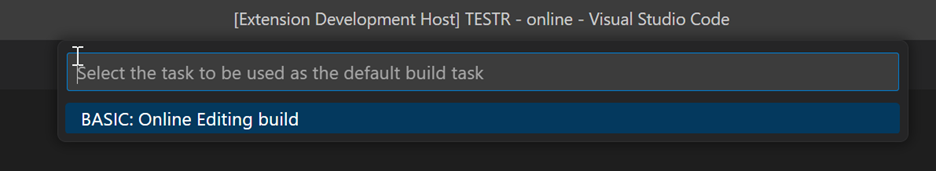
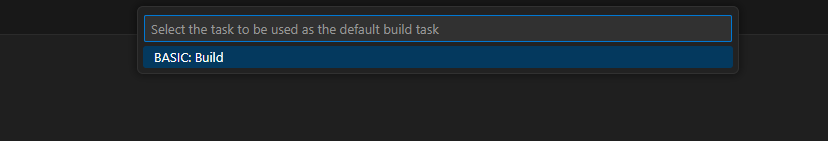
Updating documents for MVVS 2.7.0

diff --git a/docs/usage/Debugging.md b/docs/usage/Debugging.md
@@ -6,13 +6,13 @@ The following U2 server versions and platforms are supported:
 
 ### UniVerse
 
-Versions: 11.3.2 or higher
+Versions: For offline mode debugging 11.3.2 or higher and for online mode debugging 11.4.1 and higher
 
 Platforms: Windows, Linux, AIX
 
 ### UniData
 
-Versions: 8.2.4
+Versions: For offline mode debugging 8.2.4 or higher and for online mode debugging 8.3.1 and higher
 
 Platforms: Windows, Linux, AIX
 
@@ -26,7 +26,7 @@ A high-performance debugging feature is supported on UniVerse 11.4.1 and UniData
 
 ### Connecting to a U2 server account folder
 
-Before using the debugging feature, you must connect to a U2 server account folder firstly. Please see the [Connection section](./Connection.md) to learn how to connect to a U2 server account.
+Before using the debugging feature, you must connect to a U2 server account folder firstly. Please see the [Connection section](./Connection.md) for offline mode and [Online Editing](./OnlineEditing.md) for online mode to learn how to connect to a U2 server account.
 
 **Note**: The debugging feature will not work if you only open a single BASIC program file in VS Code. You must open an account folder.
 
@@ -39,6 +39,8 @@ Before debugging, open the BASIC program first.
 **Note**: debugging a BASIC subroutine directly is not allowed.
 
 ### Debugging without a launch file
+> **Note** : 
+> Debugging without a launch file works properly in offline mode only; in online mode, the behavior is uncertain.
 
  - Click the **Run and Debug** icon on from the left menu bar. The **Run and Debug** view will display if you have no `launch.json` file in your project.
 
@@ -92,6 +94,8 @@ Then a default debugging configuration file launch.json will be generated in dir
  - "dependencies": put other BASIC program files' absolute paths here if they need to be compiled before debugging. For example, "C:\U2\UV\XDEMO\TEST". 
  - "arguments": put additional debugging online· here. Please refer to your UniVerse / UniData user documentation for more details. By default, this setting doesn’t appear in the configuration file, but can be added manually if needed.
 
+For online mode create build task as mentioned in [Online Editing](./OnlineEditing.md)
+
 From the **Run and Debug** view, set the launch option to **Launch Program**. Then press the F5 button to start debugging. 
 
 ![](../img/debug_launch_program.png)
@@ -99,6 +103,10 @@ From the **Run and Debug** view, set the launch option to **Launch Program**. Th
 ## Support Operations
 
 The following debug operations are supported.
+
+>**Note**
+>
+>In online mode, the source code is accessed virtually. When debugging starts, the source code always comes from the U2 debugger service, (which is why a different file is launched for debugging).
 
 ### Setting break point
 
@@ -113,6 +121,12 @@ When debugging starts, you can set a break point by:
 You can find all break points in **BREAKPOINTS** panel of the **Run and Debug** view.
 
 ![](../img/debug_breakpoints_view.png)
+
+>**Note**
+>
+>In online mode, a different file is launched for debugging, so and breakpoints are applied to that file as well. As a result, the user will see the same breakpoints in the "BREAKPOINTS" view, but in two different files.
+>
+> ![](../img/online_debug_multiple_breakpoints.png)
 
 The program will stop when the process encounters a break point.
 

diff --git a/docs/usage/OnlineEditing.md b/docs/usage/OnlineEditing.md
@@ -113,6 +113,30 @@ In the Configure Patterns option, enter the account/folder/file name patterns yo
 **View Filtered Results**:
 * Expand the specific server or folder to see only the filtered accounts, folders, and files.
 
+### Search BASIC programs
+
+Users can search for BASIC programs within a folder. Users can specify a search pattern or text to find specific files. This feature is designed for quick access to files, eliminating the need to scroll through the VS Code file view.
+
+In the Search option, enter the file name pattern you want to match. Pattern matching characters are:
+ * \* = any string
+ * ? = any character
+
+#### **Steps to Search BASIC programs**
+**Access Configuration**:
+* Right-click the folder inside Account.
+* Select the "Search" option.
+
+![](../img/online_editing_search_option.png)
+
+**Enter Search Pattern**:
+* Enter the file name or search criteria and click Enter.
+
+![](../img/online_editing_search_criteria.png)
+
+**View Search Results**:
+* Users can view search result in "SEARCH RESULTS" view and open files directly from that view.
+![](../img/online_editing_search_results_view.png)
+
 
 ### Editing BASIC programs
 
@@ -157,7 +181,7 @@ Clicking on 'Catalog' will use the parameters from the basic.mvbasic.json file t
 
 #### Compile / Catalog with configuration file
 The configuration file can help a user to compile and catalog multiple files.
-Select “Configure Default Build Task…” from the Terminal menu, and then select “BASIC: Online Editing build” to create a build task.
+Select “Configure Default Build Task…” from the Terminal menu, and then select “BASIC: Build” to create a build task.
 
 ![](../img/online_editing_compile_2.png)
 
@@ -166,6 +190,9 @@ Select “Configure Default Build Task…” from the Terminal menu, and then se
 A default task file will be generated. For more information on this file, see the “Compile” documentation.
 
 ![](../img/online_editing_compile_4.png)
+
+### Debugging in online mode
+Refer [Debugging](./Debugging.md) for debugging steps.
 
 ### Limitation:
 Most of the LSP (Language Server Protocol) features are supported, but there are some limitations. 

diff --git a/docs/usage/Compatibility.md b/docs/usage/Compatibility.md
@@ -1,3 +1,9 @@
+# U2 Product Compatibility
+
+For the Rocket MV BASIC Extension product, not all features are currently supported on all U2 products & platforms. Users need to pay attention to the U2 product version and platform information first, as some feature may not working properly.
+
+For more details, please refer [Rocket-MV-BASIC-Extension-features-support-matrix](https://my.rocketsoftware.com/RocketCommunity/s/article/Rocket-MV-BASIC-Extension-features-support-matrix).
+
 # VS Code Compatibility 
 
 Upgrading VS Code may potentially introduce some issues that could result in anomalies with the compilation or debugging functions of our extension. In such cases, you can consider downgrading VS Code as a workaround. We have summarized a list of recent stable versions of VS Code for your reference.

diff --git a/docs/usage/KnownIssues.md b/docs/usage/KnownIssues.md
@@ -1,5 +1,8 @@
 # Known Issues
 
-> **NOTE:**
->
-> We have moved this section to following link [MVVS Tech Note](https://my.rocketsoftware.com/RocketCommunity/s/article/Notices-for-MVVS-Release-2-6-0)
+## For 2.7.0 release
+[MVVS Tech Note for Release 2.7.0](https://my.rocketsoftware.com/RocketCommunity/s/article/Notices-for-MVVS-Release-2-7-0)
+
+
+## For 2.6.0 release
+[MVVS Tech Note for Release 2.6.0](https://my.rocketsoftware.com/RocketCommunity/s/article/Notices-for-MVVS-Release-2-6-0)
